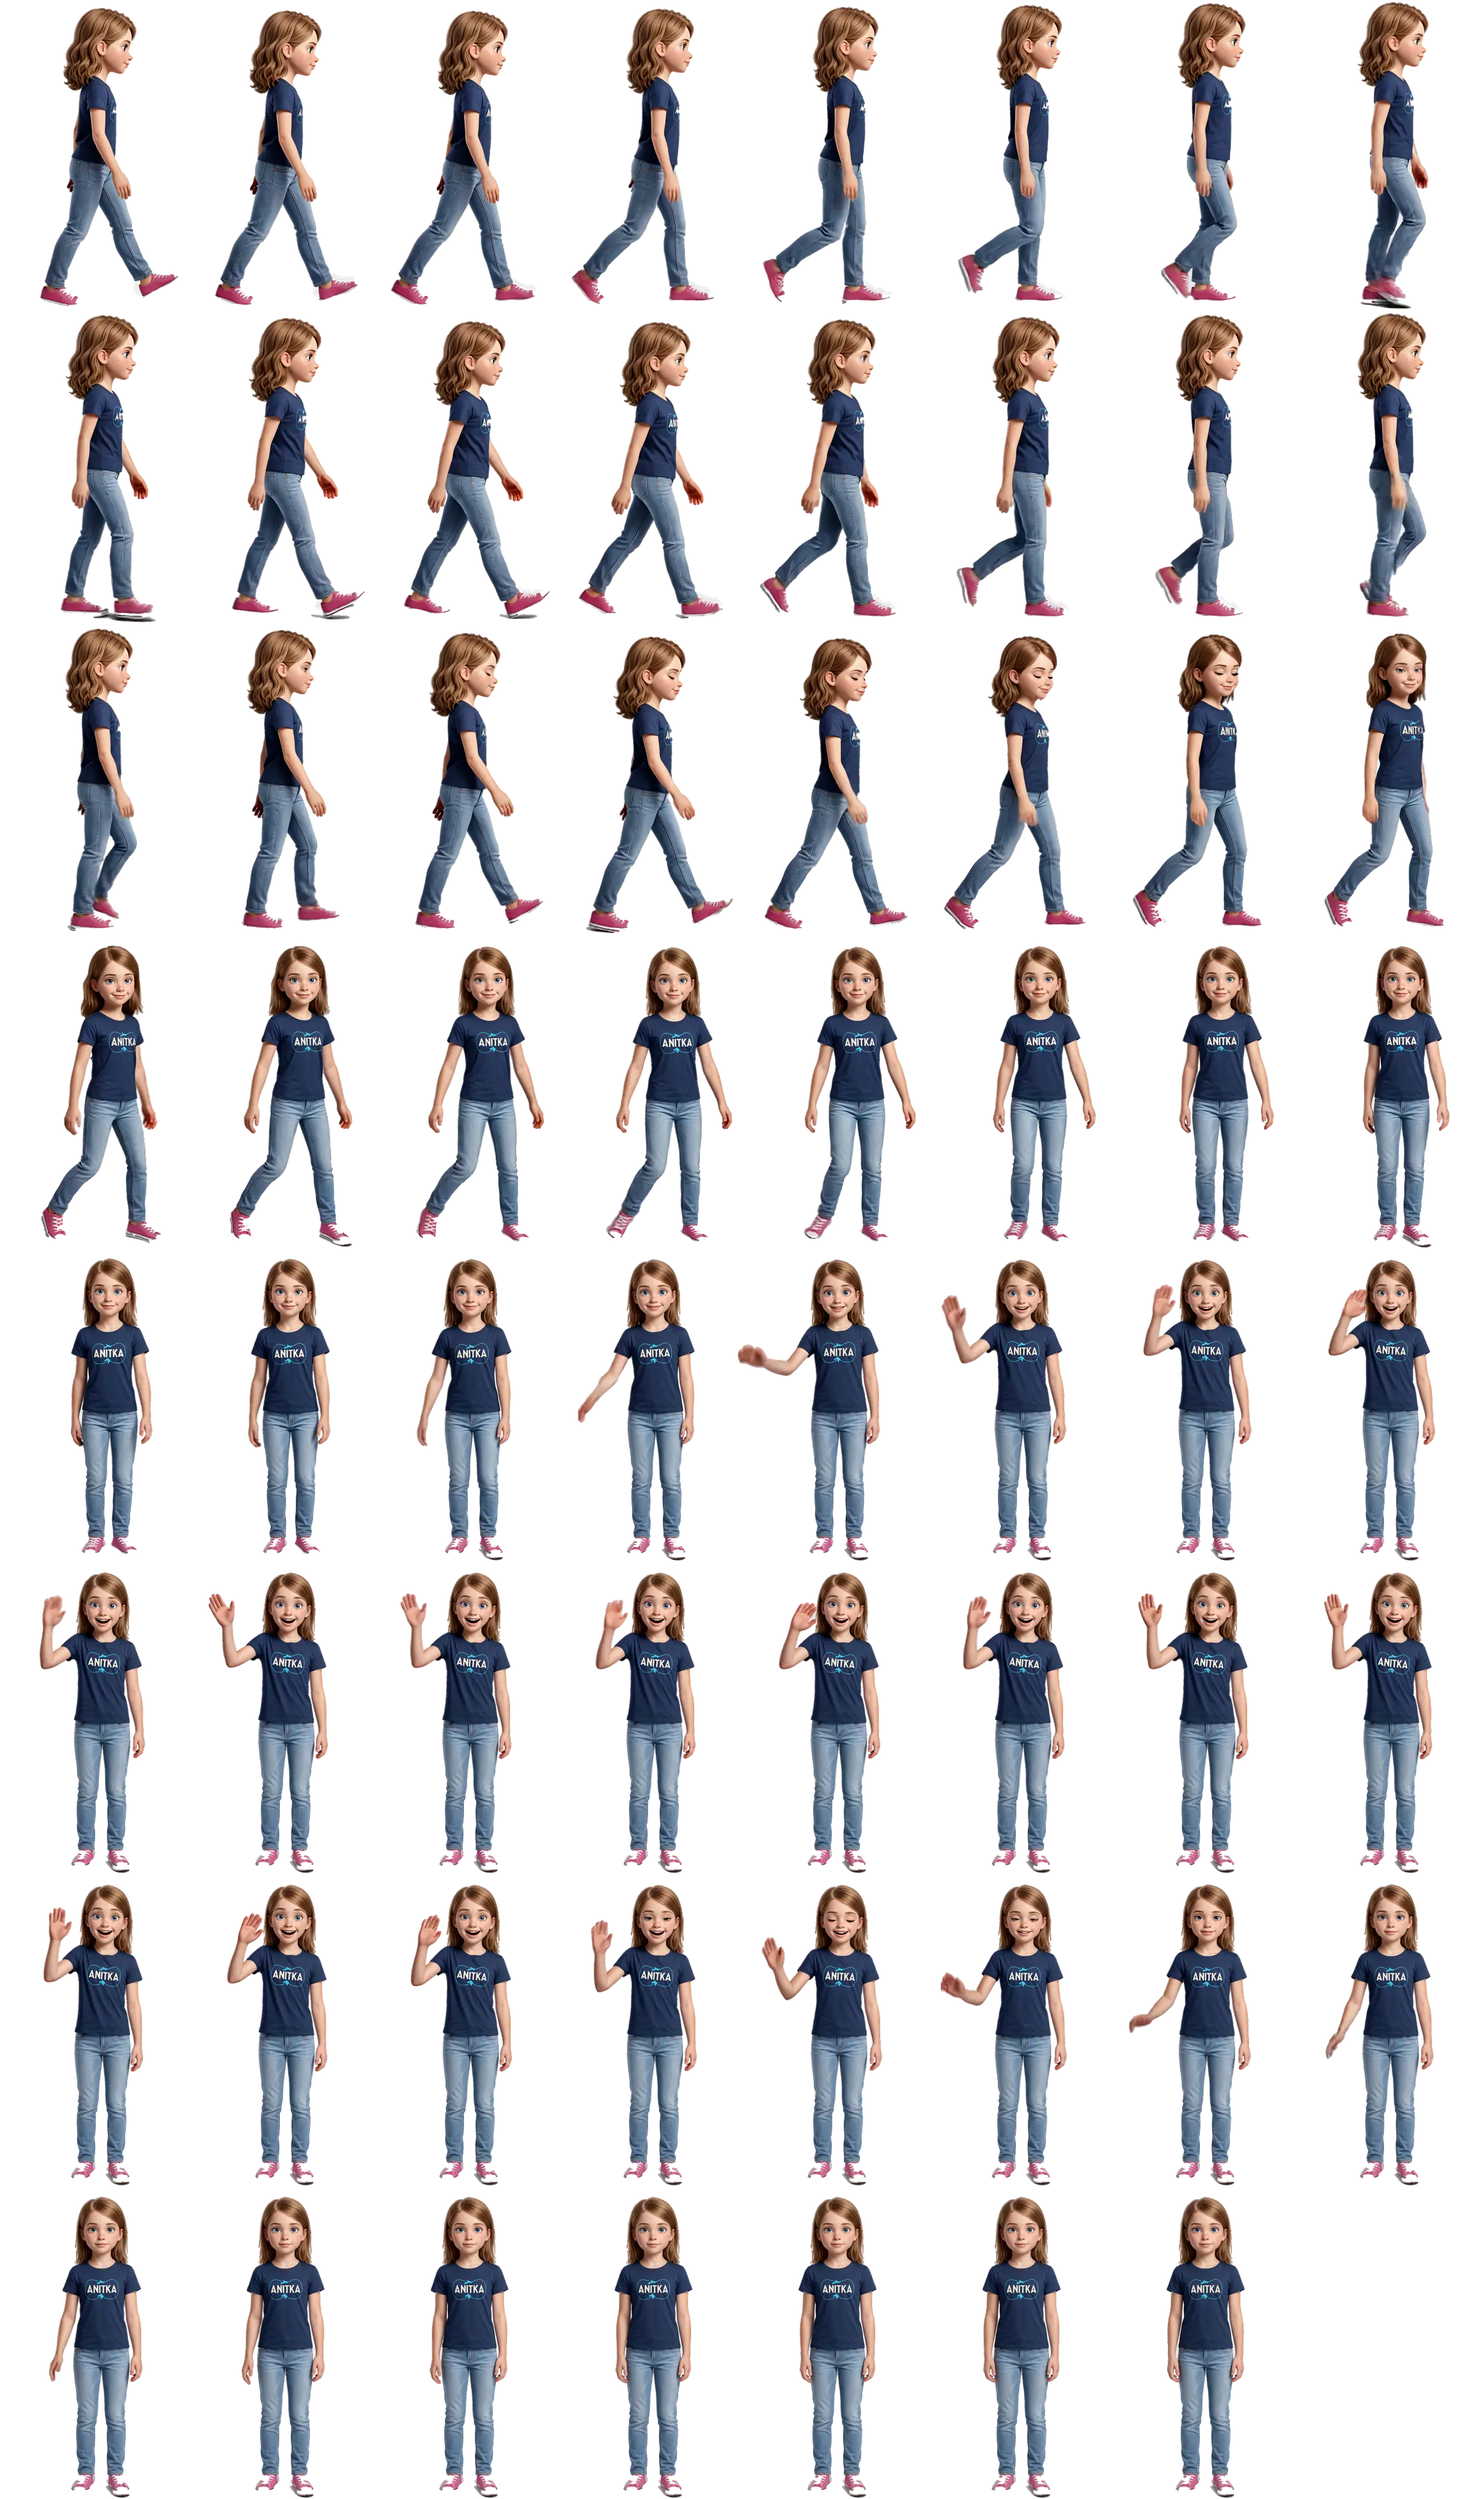
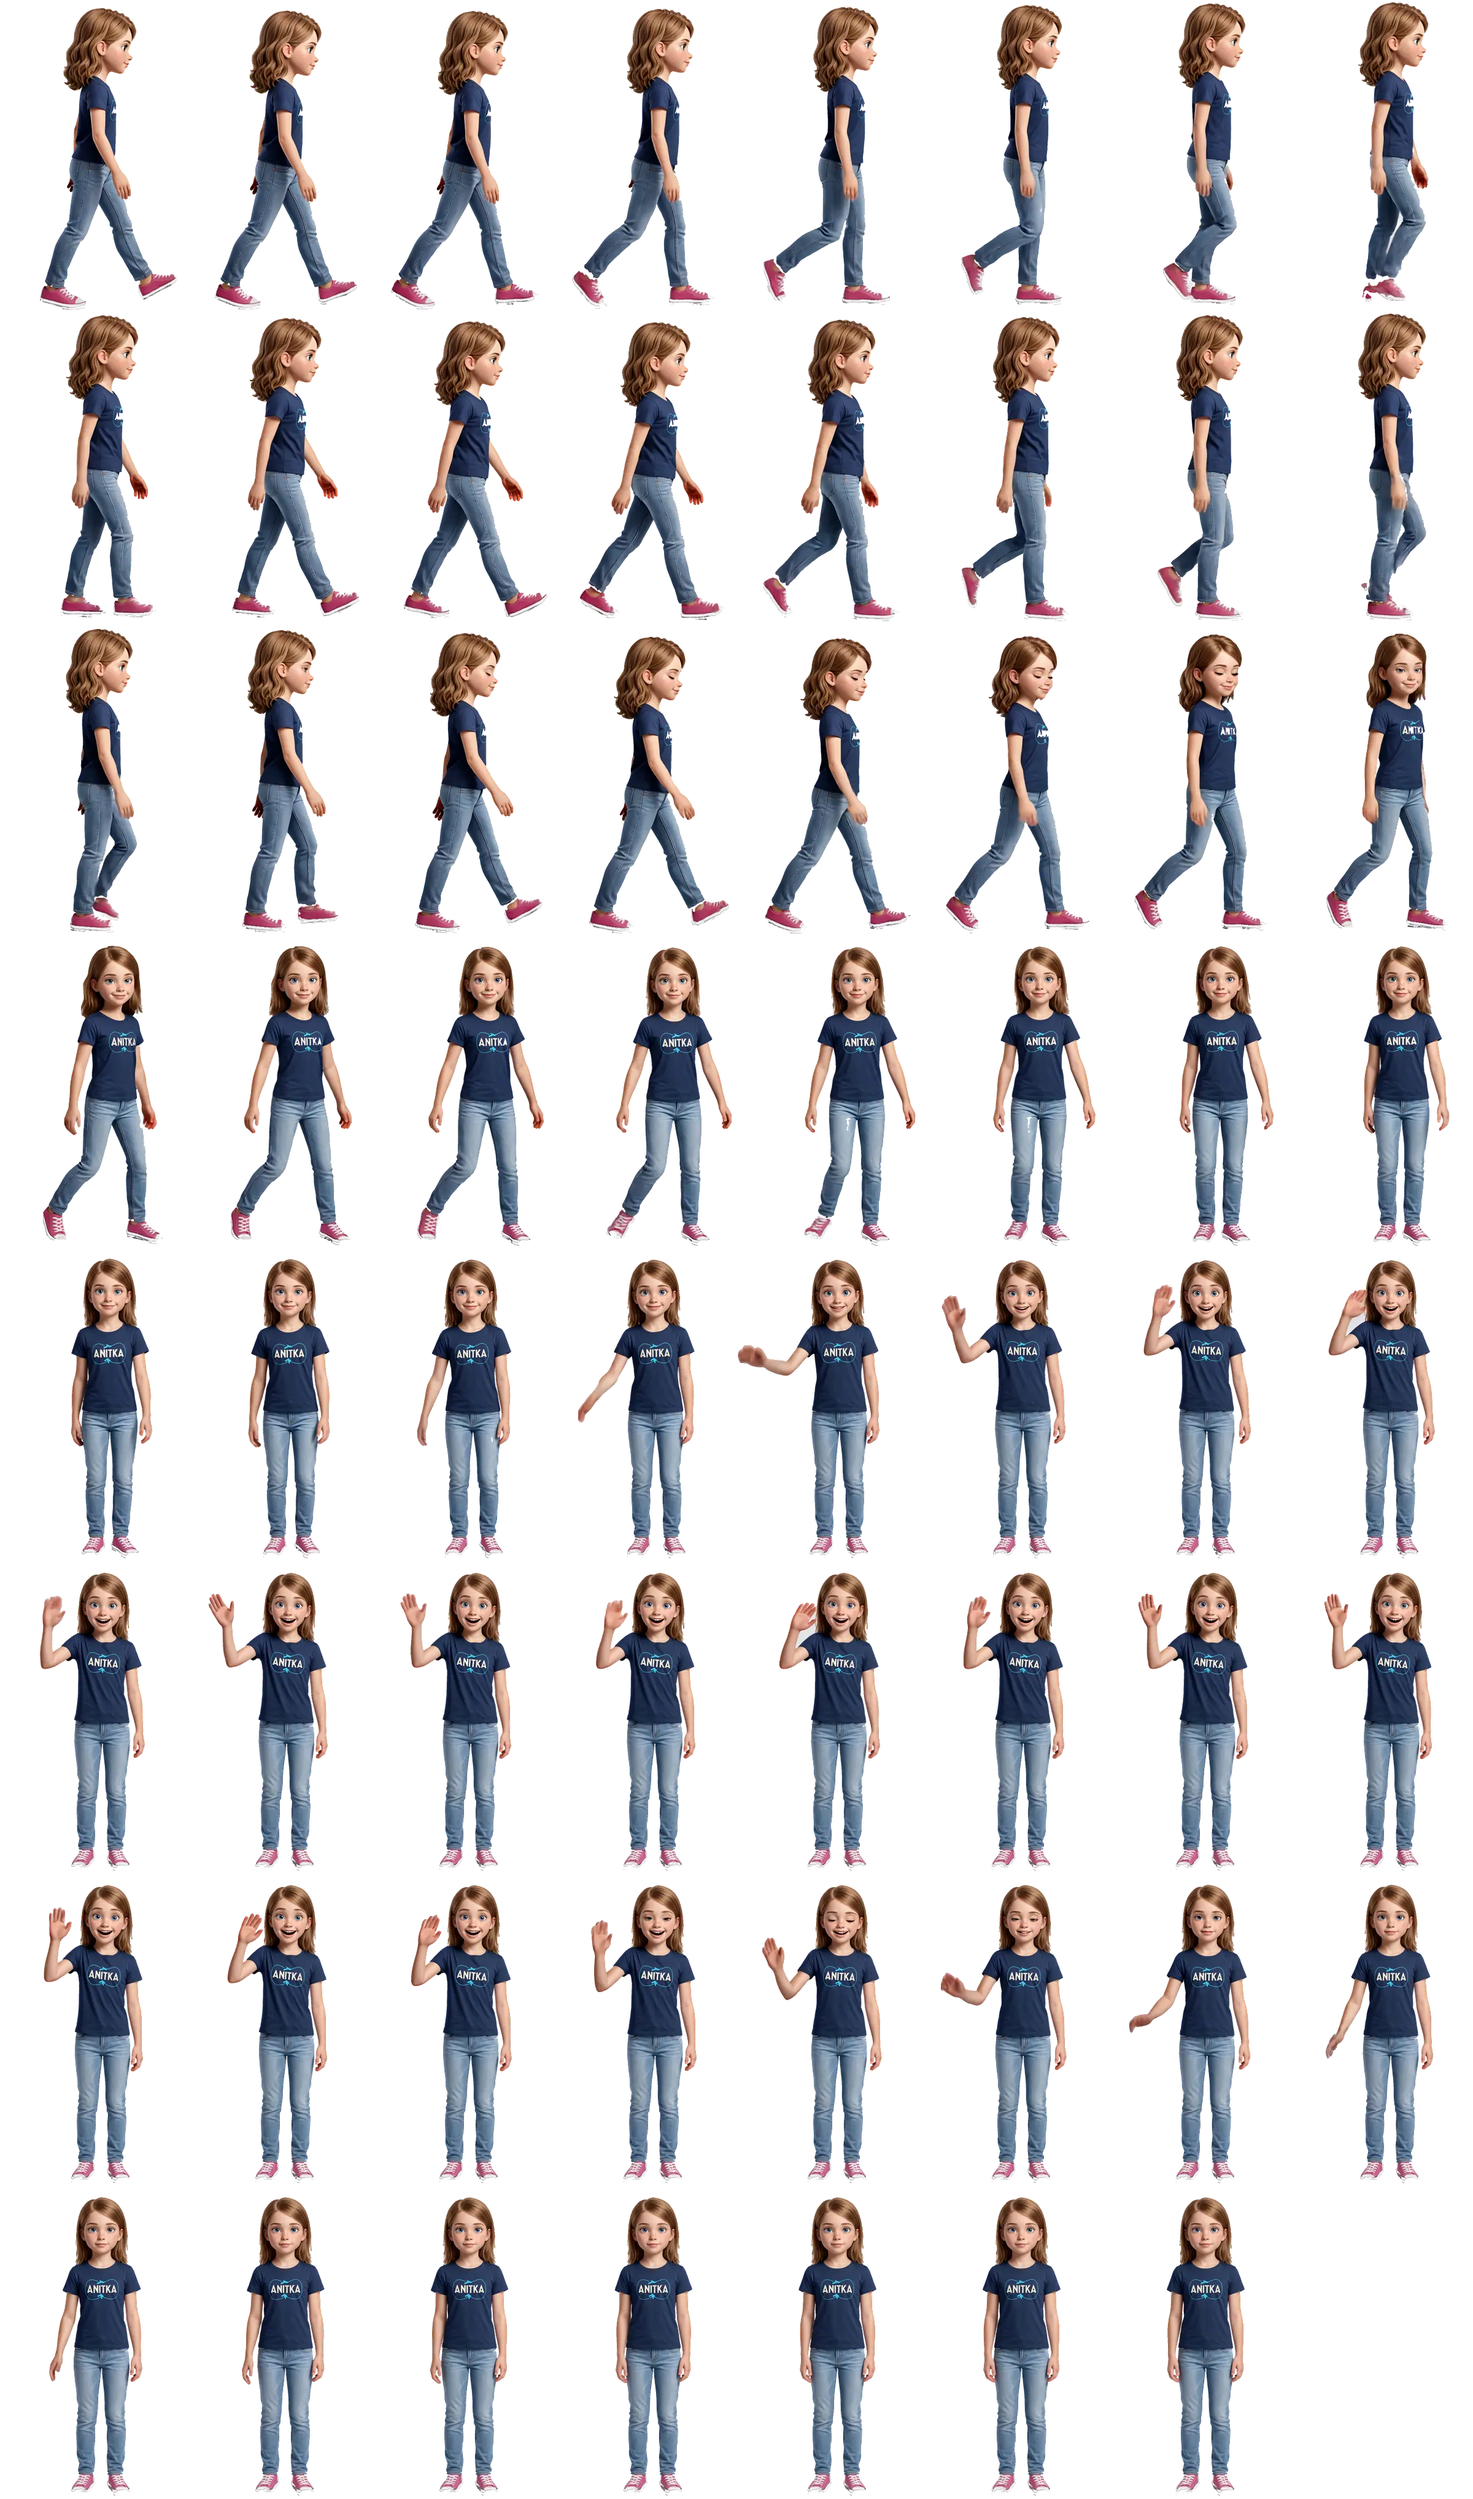
Anitka: užší sloupec v průvodci a čistší ořez pozadí (#439)
* Anitka: užší sloupec v průvodci a čistší ořez pozadí

* Intro: celé boty s dopočítanou podrážkou a čistá mezera mezi nohama

* Intro: bílé špičky bot zůstávají součástí boty

---------

diff --git a/components/guide/guide-tour.tsx b/components/guide/guide-tour.tsx
@@ -70,13 +70,16 @@ export function GuideTour({ onNavigate, onClose }: { onNavigate: (tab: Tab) => v
         <div className="flex flex-row-reverse overflow-hidden rounded-3xl border border-border bg-surface-elevated text-foreground shadow-elevated motion-safe:animate-in motion-safe:fade-in motion-safe:slide-in-from-bottom-3 motion-safe:duration-300">
           {/* The mascot stands inside the card, whole, with her feet on its lower edge. Above her
               the icon of the section being explained, the same one the navigation uses. */}
-          <div className="flex w-[8.25rem] shrink-0 flex-col items-center justify-between bg-accent-subtle pt-3 sm:w-36">
+          <div className="flex w-[6rem] shrink-0 flex-col items-center justify-between bg-accent-subtle pt-3 sm:w-28">
             <span key={`icon-${step.id}`} className="flex size-9 items-center justify-center rounded-full bg-surface-elevated text-accent-text shadow-sm motion-safe:animate-in motion-safe:zoom-in-50 motion-safe:duration-300">
               <SectionIcon className="size-5" aria-hidden="true" />
             </span>
             {/* She hops in each time a new card appears (the key restarts it), breathes and sways, and her
                 face and head are alive: blinking, smiling, nodding, a wink (components/guide/anitka-mascot.tsx). */}
-            <div key={`mascot-${step.id}`} className="guide-hop mt-3 w-full px-0.5">
+            {/* The picture is wider than the column on purpose (its left side is where her raised hand goes
+                while she greets): it overhangs the text for those few seconds, and she herself stands in the
+                middle of the column. */}
+            <div key={`mascot-${step.id}`} className="guide-hop pointer-events-none relative z-10 mt-3 w-[8.25rem] shrink-0 -ml-[2.25rem] self-start sm:w-36">
               <AnitkaMascot mood={step.mood} talkMs={talkDurationMs(step.text)} className="guide-idle" />
             </div>
           </div>

diff --git a/docs/22_GUIDE.md b/docs/22_GUIDE.md
@@ -19,7 +19,7 @@ Klikatelný interaktivní návod (ne video) s maskotem Anitkou, malou holčičko
 
 **Přirozený pohyb (2026-10-12).** Houpání a poskočení při změně karty bylo pryč: nepůsobilo přirozeně. Teď se jen jemně nadechuje (`guide-idle`), nová karta se plynule objeví (`guide-hop`, 0,45 s, bez skoku a bez vjezdu ze strany). Mluví po dobu úměrnou délce textu karty (`talkDurationMs`, 1,6–4,5 s, CSS proměnná `--talk`): rty se pohybují nepravidelně s pauzami mezi frázemi a hlava se při řeči lehce zdvihá a sklání (vrstva `.anitka-speak`). Mrká nepravidelně a jednou za cyklus dvakrát za sebou, hlava se v klidu jen pomalu uvolňuje do stran. Nálady (`mood`) začínají i končí v klidové poloze: `nod` kývne po domluvení, `think` na chvíli nakloní hlavu, `cheer` krátce zvedne hlavu, `wink` mrkne po domluvení a úsměv přichází až po řeči. **Gestikulace rukama zatím není:** podklad je jeden obrázek, na kterém ruce visí podél těla a jsou na dolním okraji ořezané (dlaně nejsou vidět), takže je nejde věrohodně hýbat. Vyžaduje nový podklad (postava s viditelnýma rukama, ideálně ruce zvlášť).
 
-**Nová podoba postavy (2026-10-12, realističtější, z animací od vlastníka).** Průvodce i intro používají stejnou postavu: dívku v modrém tričku z čelního pohledu, vyříznutou ze studiového pozadí videí (`public/brand/anitka/`): `anitka-guide-front.webp` (klidná poloha, horní polovina těla, 300 × 417 px) a `anitka-guide-wave.webp` (spritový list 7 × 5 dlaždic ze snímků videa „Mávání zepředu“, 12 snímků za sekundu). Na ostatních kartách se hýbe jen hlava (drift, kývnutí, naklonění; vrstva hlavy je ta samá kresba oříznutá u krku) a obličej: víčka (mrkání, mrknutí) a ústa (úsměv, pohyb rtů při „řeči“) jsou SVG přes obličej, souřadnice v pixelech videa (1176 × 1756) posunuté o ořez. První karta (`mood: 'wave'`) nahradí klidný obrázek mávnutím z videa (asi 3 s) a plynule se do něj vrátí (průnik 0,3 s); při „omezit pohyb“ je jen klidný obrázek. Sloupec s postavou je širší (8,25–9 rem), aby se vešla i zvednutá ruka. Staré obrázky `anitka-mascot-full.webp` a vrstvy `anitka-guide-body/arm/wave-*.webp` jsou smazané. Úvodní obrazovka před přihlášením má vlastní přehrávání (viz výše).
+**Nová podoba postavy (2026-10-12, realističtější, z animací od vlastníka).** Průvodce i intro používají stejnou postavu: dívku v modrém tričku z čelního pohledu, vyříznutou ze studiového pozadí videí (`public/brand/anitka/`): `anitka-guide-front.webp` (klidná poloha, horní polovina těla, 300 × 417 px) a `anitka-guide-wave.webp` (spritový list 7 × 5 dlaždic ze snímků videa „Mávání zepředu“, 12 snímků za sekundu). Na ostatních kartách se hýbe jen hlava (drift, kývnutí, naklonění; vrstva hlavy je ta samá kresba oříznutá u krku) a obličej: víčka (mrkání, mrknutí) a ústa (úsměv, pohyb rtů při „řeči“) jsou SVG přes obličej, souřadnice v pixelech videa (1176 × 1756) posunuté o ořez. První karta (`mood: 'wave'`) nahradí klidný obrázek mávnutím z videa (asi 3 s) a plynule se do něj vrátí (průnik 0,3 s); při „omezit pohyb“ je jen klidný obrázek. Sloupec s postavou je úzký (6–7 rem), obrázek v něm je ale širší (8,25–9 rem) a vyčnívá doleva přes text (`z-10`, bez zachytávání klepnutí): ruka při mávání na pár vteřin přejede přes text a potom se postava do sloupce vejde. Ořez pozadí (2026-10-12, podruhé): za pozadí se bere i každý jasný skoro bezbarvý pixel (stěna a podlaha studia; kůže, vlasy, džíny a tričko jsou barevné), takže nezůstávají proužky mezi paží a tělem ani světlý lem kolem vlasů; uvnitř postavy se nechávají jen díry v obličeji, v nápisu na tričku a drobné díry v džínách. Boty (opraveno podruhé, 2026-10-12): bílá guma podrážky a špičky má stejnou barvu jako podlaha studia, takže ji nelze najít podle barvy. Najde se jen růžová horní část; podrážka se dopočítá jako tenký lem pod ní s jemným tmavším okrajem a stín i odraz boty na podlaze se odstraní (nižší sytost, tmavší než podlaha, mimo džíny a kůži). Bílá špička (gumová čepička) a okraj podrážky jsou ohraničené tenkými tmavými liniemi boty: za část boty se bere konvexní obal růžové části a těchto linií pod její polovinou a v něm zůstávají původní pixely z videa (jen bílé nebo tenká tmavá linie, ne šedý stín ani tmavá skvrna pod botou, ani džíny). Zvednutá, rozmazaná bota se drží i tehdy, když se v obrázku nedotýká těla. Mezery mezi zkříženýma nohama se nevyplňují (vyplňují se jen malé kulaté důlky v džínách). Staré obrázky `anitka-mascot-full.webp` a vrstvy `anitka-guide-body/arm/wave-*.webp` jsou smazané. Úvodní obrazovka před přihlášením má vlastní přehrávání (viz výše).
 
 Původní popis (zachovaný níže) platí pro dýchání a umístění v kartě; skok a kolébání už neplatí a obrázek je nahrazený.
 

diff --git a/docs/07_CHANGELOG.md b/docs/07_CHANGELOG.md
@@ -1,3 +1,18 @@
+## 2026-10-12 — Intro: bílé špičky bot
+
+- Koncept: `docs/22_GUIDE.md`. Po kontrole zdroje se ukázalo, že špičky bot byly oříznuté: gumová čepička je bílá jako podlaha, takže ji ořez bral za pozadí. Špička a okraj podrážky se teď berou jako část boty podle konvexního obalu růžové části a tenkých tmavých linií boty; původní pixely z videa zůstávají, šedý stín a tmavé skvrny pod botou ne. Nový `anitka-intro-walk.webp`.
+- Ověřeno prohlídkou snímků chůze a stání na bílém podkladu. U rozmazaných snímků zůstávají na okraji drobné světlé zbytky.
+
+## 2026-10-12 — Intro: celé boty a čistá mezera mezi nohama
+
+- Koncept: `docs/22_GUIDE.md`. Kontrola spritového listu chůze ukázala, že bílé podrážky a špičky bot byly neúplné a v několika snímcích zůstával šedý stín podlahy. Ořez boty teď skládá z růžové části a dopočítané podrážky (tenký lem pod ní), stín a odraz na podlaze odstraňuje a zvednutou rozmazanou botu drží i tehdy, když visí mimo tělo. Mezera mezi zkříženýma nohama zůstává průhledná. Nový `anitka-intro-walk.webp`.
+- Ověřeno prohlídkou snímků chůze z profilu i čelního stání na tmavém a bílém podkladu a v intru v Chromiu. Podrážka je z části dokreslená, ne přesně z videa; rozmazaný snímek zkřížených nohou má v mezeře drobný zbytek.
+
+## 2026-10-12 — Anitka: užší sloupec v průvodci a čistší ořez pozadí
+
+- Koncept: `docs/22_GUIDE.md`. Sloupec s postavou v průvodci je zase úzký (6–7 rem); obrázek je širší a při mávání ruka na chvíli přejede přes text, potom se postava do sloupce vejde. Ořez pozadí intra i průvodce je přepracovaný: jasné skoro bezbarvé pixely se berou za pozadí, takže zmizely zbytky mezi rukama a tělem a světlý lem kolem hlavy a vlasů; nápis ANITKA na tričku, oči, zuby a drobné díry v džínách zůstávají. Boty se skládají z růžové části a lemu podrážky. Nové `anitka-intro-walk.webp`, `anitka-guide-wave.webp` a `anitka-guide-front.webp`.
+- Ověřeno: typová kontrola, testy, snímky z Chromia (intro v pohybu i ve stoje, karta průvodce na 390 a 360 px při mávání i po něm). U botek zůstávají drobné nedokonalosti (tmavý stín pod pravou botou v některých snímcích). Na telefonu zatím neověřeno.
+
 ## 2026-10-12 — Průvodce: nová podoba Anitky (čelní pohled, mimika, mávání zepředu)
 
 - Koncept: `docs/22_GUIDE.md`. Průvodce přešel na novou, realističtější podobu postavy z animací od vlastníka: klidný čelní obrázek (`anitka-guide-front.webp`) s dokreslenou mimikou (víčka, úsměv, rty) přes nový obličej a na první kartě mávnutí z videa „Mávání zepředu“ jako spritový list (`anitka-guide-wave.webp`, 35 dlaždic, 0,5 MB) s plynulým návratem do klidné polohy. Starší vrstvená postava (tělo, svěšená paže, zvednutá paže, dlaň) a její obrázky jsou pryč, sloupec s postavou je širší kvůli zvednuté ruce.
